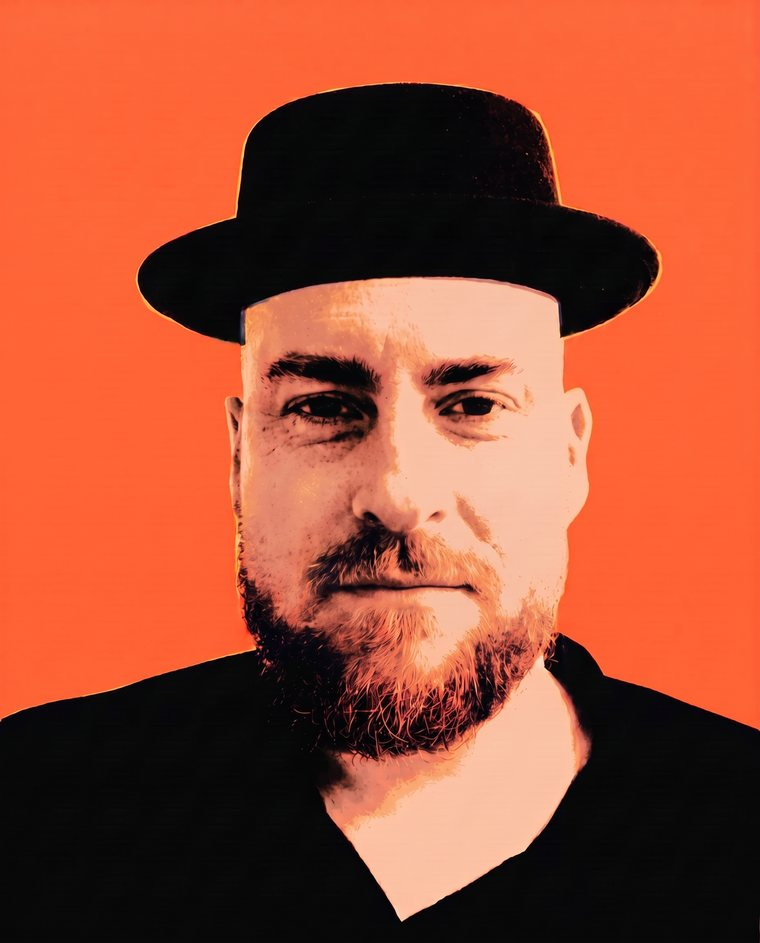
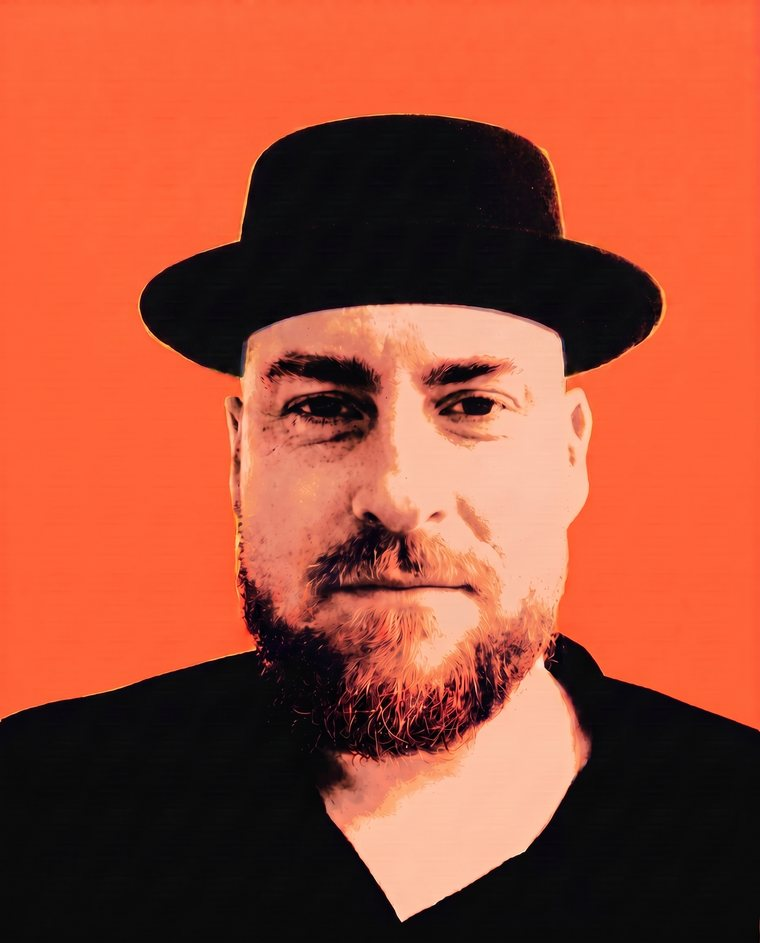
Update Teun's member illustration; bump member cache version to v=3
Claude-Session: https://claude.ai/code/session_014cfcL6YQYRThTVkfsxPfKv

diff --git a/website/index.html b/website/index.html
@@ -723,7 +723,7 @@ function renderMembers(){
   MEMBERS.forEach(function(m,i){
     var d=document.createElement('div'); d.className='member reveal'; d.style.transitionDelay=(i%3*0.08)+'s';
     d.innerHTML='<div class="member-pic">'+
-      '<img src="assets/members/'+m[3]+'.jpg?v=2" alt="'+m[0]+' — '+(lang?m[2]:m[1])+'" loading="lazy" /></div>'+
+      '<img src="assets/members/'+m[3]+'.jpg?v=3" alt="'+m[0]+' — '+(lang?m[2]:m[1])+'" loading="lazy" /></div>'+
       '<div class="member-body"><h3>'+m[0]+'</h3><div class="member-role f-comic">'+(lang?m[2]:m[1])+'</div></div>';
     g.appendChild(d);
   });